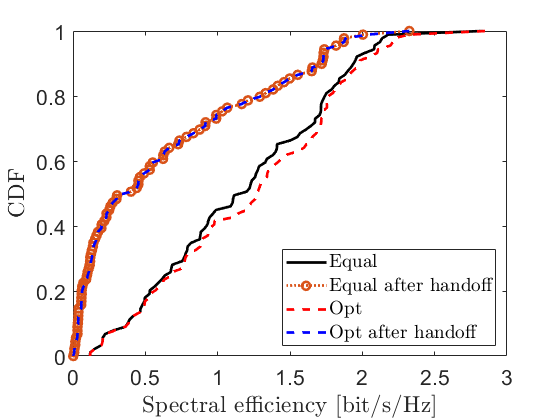
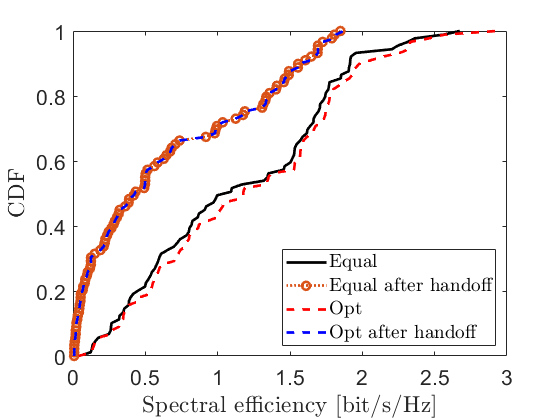
bug fix - wrong objective calculation in SCA for weighted sum rate

Changed region(s): [[0.1214, 0.0619, 0.8804, 0.8667]]

diff --git a/Simulation/functionDownlinkSE_sumSE_distv3.m b/Simulation/functionDownlinkSE_sumSE_distv3.m
@@ -41,7 +41,7 @@ La = zeros(K,1);
 Serv = cell(K,1);
 %Prepare cell to store the AP indices not serving a specficic UE
 NoServ = cell(K,1);
-p_fac= 100; %ratio of mmW to sub-6 powers
+p_fac= 1; %100; %ratio of mmW to sub-6 powers
 %Construc the above array and cells
 for k = 1:K
     servingAPs = find(D(:,k)==1);
@@ -213,8 +213,11 @@ while (diff>0.1) || (diff<0)  %|| (iterr > n_sca)
         %     lambda_old = lambda;
             %Compute SEs
             SE = preLogFactor*log(1+zeta_old)/log(2);
-            objec_new = sum(SE);
-        
+            if (K_mmW == 0)
+                objec_new = sum(SE);
+            else
+                objec_new = 100*SE(1) + sum(SE(2:K));
+            end
             %Obtain the difference between current and previous objective values
             diff = objec_new - objec_old;
             clear c2 t zeta lambda
@@ -240,8 +243,11 @@ while (diff>0.1) || (diff<0)  %|| (iterr > n_sca)
             %     lambda_old = lambda;
                 %Compute SEs
                 SE = preLogFactor*log(1+zeta_old)/log(2);
-                objec_new = sum(SE);
-            
+                if (K_mmW == 0)
+                    objec_new = sum(SE);
+                else
+                    objec_new = 100*SE(1) + sum(SE(2:K));
+                end            
                 %Obtain the difference between current and previous objective values
                 diff = objec_new - objec_old;
                 clear c2 t zeta lambda

diff --git a/Simulation/try_opt_het_qos.m b/Simulation/try_opt_het_qos.m
@@ -52,7 +52,7 @@ tau_p = K;
 preLogFactor = (tau_c-tau_p)/tau_c;
 
 %Number of setups with random UE locations
-nbrOfSetups = 10; %100;
+nbrOfSetups = 1; %100;
         
       
 %Number of channel realizations per setup
